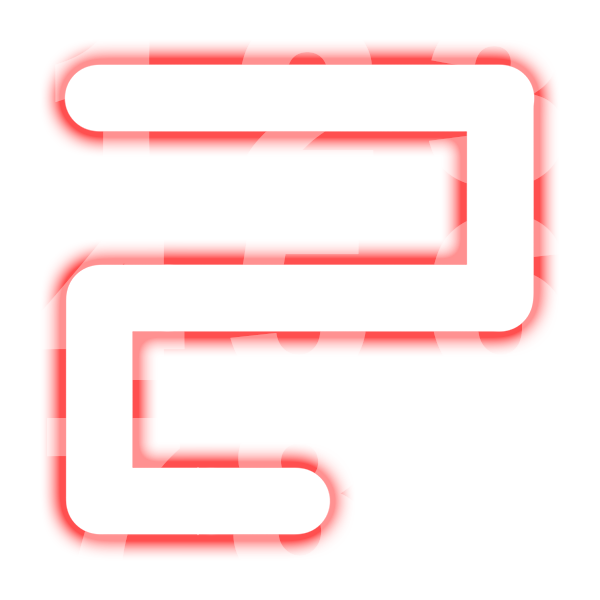
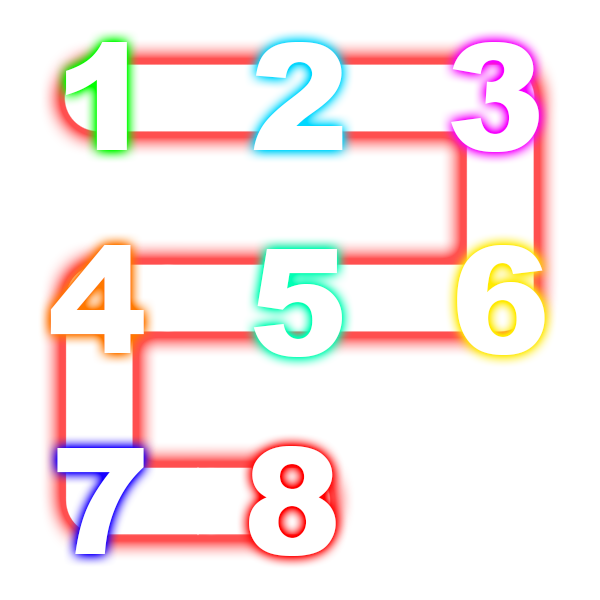
Screen Transition * changed minigame number, because lab people said 3 and 8 were too similar * incorporate transit screen and win screen into current code base * added FinalScreen to indicate it is time to hack missile * remove timeout place holder, now transitScreen placed between 2 levels * place

diff --git a/src/Screens/ScreenManager.cpp b/src/Screens/ScreenManager.cpp
@@ -12,7 +12,8 @@ ScreenManager::ScreenManager(Logic *logic){
     info_screen = new InfoScreen();
     transit_screen = new TransitScreen();
     win_screen = new WinScreen();
-	current_screen = win_screen;
+    final_screen = new FinalScreen();
+	current_screen = menu_screen;
 }
 
 void ScreenManager::render(sf::RenderWindow *window){
@@ -70,10 +71,28 @@ void ScreenManager::interpretInput(std::vector<sf::Event>& events){
 
         }
         else if (current_screen == timeout_screen) {
+//            if (event.type == sf::Event::KeyPressed) {
+//                if (event.key.code == sf::Keyboard::Space) {
+//                    //std::cout << "ScreenManager: debug: tried to switch back to gamescreen" << std::endl;
+//                    current_screen = game_screen;
+//                }
+//                eventAccepted = true;
+//            }
+        }
+        else if(current_screen == transit_screen){
             if (event.type == sf::Event::KeyPressed) {
                 if (event.key.code == sf::Keyboard::Space) {
                     std::cout << "ScreenManager: debug: tried to switch back to gamescreen" << std::endl;
                     current_screen = game_screen;
+                }
+                eventAccepted = true;
+            }
+
+        }else if(current_screen==final_screen){
+            if (event.type == sf::Event::KeyPressed) {
+                if (event.key.code == sf::Keyboard::Space) {
+                    std::cout << "ScreenManager: debug: tried to switch to minigame screen" << std::endl;
+                    current_screen = minigame_screen;
                 }
                 eventAccepted = true;
             }
@@ -110,6 +129,41 @@ void ScreenManager::switchToGameScreen(){
     current_screen=game_screen;
 }
 
+void ScreenManager::switchToFinalScreen(sf::RenderWindow* window){
+    minigame_screen->gameWon = false;
+    minigame_screen->spriteBoardCreated = false;
+    minigame_screen->shuffled = false;
+    sf::View camera = window->getView();
+    camera.setCenter(sf::Vector2f(400,300));
+    window->setView(camera);
+    current_screen=final_screen;
+
+
+}
+
+void ScreenManager::switchToWin(sf::RenderWindow* window){
+    //minigame_screen->gameWon = false;
+    //minigame_screen->spriteBoardCreated = false;
+    //minigame_screen->shuffled = false;
+    sf::View camera = window->getView();
+    camera.setCenter(sf::Vector2f(400,300));
+    window->setView(camera);
+    //logic_->setPlayState(Logic::WIN);
+    current_screen=win_screen;
+}
+
+void ScreenManager::switchToTransit(sf::RenderWindow* window){
+    //minigame_screen->gameWon = false;
+    //minigame_screen->spriteBoardCreated = false;
+    //minigame_screen->shuffled = false;
+    sf::View camera = window->getView();
+    camera.setCenter(sf::Vector2f(400,300));
+    window->setView(camera);
+    //logic_->setPlayState(Logic::WIN);
+    current_screen=transit_screen;
+}
+
+
 void ScreenManager::switchToMinigame(sf::RenderWindow* window){
     sf::View camera = window->getView();
     camera.setCenter(sf::Vector2f(400,300));
@@ -127,4 +181,12 @@ bool ScreenManager::isMinigameOver(){
 
 void ScreenManager::passInputToMinigame(sf::Vector2<float> coordinates, sf::RenderWindow* window){
     minigame_screen->moveOnClick(minigame_screen->shuffledPuzzle, coordinates, window);
+}
+
+bool ScreenManager::isMinigameFinal(){
+    return minigame_screen->getMinigameFinal();
+}
+
+void ScreenManager::setMinigameToFinal(){
+    minigame_screen->setMinigameFinal();
 }

diff --git a/src/Game.cpp b/src/Game.cpp
@@ -63,8 +63,15 @@ void Game::Loop() {
             }
             if (screenManager->isOnMinigameScreen()){
                 if(screenManager->isMinigameOver()){
-                    screenManager->switchToGameScreen();
+                    if(!screenManager->isMinigameFinal()){
+                        screenManager->switchToGameScreen();
+
+                    }else{
+                        screenManager->switchToWin(window);
+                    }
+
                 }
+
                 else if (sf::Mouse::isButtonPressed(sf::Mouse::Left))
                     screenManager->passInputToMinigame(sf::Vector2f(sf::Mouse::getPosition(*window)), window);
                     logic->update(deltaTime);
@@ -89,7 +96,7 @@ void Game::Loop() {
                         std::cout << "Game.cpp: detected game logic WON state" << std::endl;
                         // switch to intermediate / loading screen
                         // TODO; make this a win instead of a timeout
-                        screenManager->switchToTimeout(window);
+                        screenManager->switchToTransit(window);
                         std::cout << "Game.cpp: switched to timeout?" << std::endl;
                         
                         // if we have another level
@@ -102,7 +109,15 @@ void Game::Loop() {
                             std::cout << "Game.cpp: next level loaded." << std::endl;
                         }
                         else {
-                            // TODO switch to the final hacking challenge, or an intermediate screen that introduces it
+                            if(screenManager->isMinigameFinal()==false){
+                                screenManager->setMinigameToFinal();
+                                screenManager->switchToFinalScreen(window);
+                                //screenManager->switchToMiniGame();
+
+                            }else{
+                                screenManager->switchToWin(window);
+                            }
+
                         }
                         
                         break;

diff --git a/src/Screens/FinalScreen.cpp b/src/Screens/FinalScreen.cpp
@@ -1,9 +1,11 @@
 //
-// Created by Ruoying Hao on 12/6/17.
+// Created by Ruoying Hao on 12/7/17.
 //
-#include "Screens/TransitScreen.hpp"
-TransitScreen::TransitScreen(){
-    if (!background.loadFromFile("../resource/background/transit_background.jpg"))
+
+#include "Screens/FinalScreen.hpp"
+
+FinalScreen::FinalScreen(){
+    if (!background.loadFromFile("../resource/background/final_background.jpg"))
     {
         // error...
     }
@@ -14,8 +16,8 @@ TransitScreen::TransitScreen(){
     }
     message.setFont(textFont);
 
-    message.setString("You have reached the exit!\n"
-                                  " But there's more to go");
+    message.setString("You have reached the missile!\n"
+                              " Now Hack the Missile!");
 
 
 
@@ -24,7 +26,7 @@ TransitScreen::TransitScreen(){
     message.setPosition(sf::Vector2f(SCREEN_WIDTH/2-message.getLocalBounds().width/2,200));
 
     enter.setFont(textFont);
-    enter.setString("Press Space to play the next level");
+    enter.setString("Press Space to hack");
     enter.setCharacterSize(30);
     enter.setFillColor(sf::Color::White);
     enter.setPosition(sf::Vector2f(SCREEN_WIDTH/2-enter.getLocalBounds().width/2,200+message.getLocalBounds().height+30));
@@ -33,7 +35,7 @@ TransitScreen::TransitScreen(){
 
 }
 
-void TransitScreen::render(sf::RenderWindow *window){
+void FinalScreen::render(sf::RenderWindow *window){
     window->clear();
     window->draw(bg);
 
@@ -42,6 +44,6 @@ void TransitScreen::render(sf::RenderWindow *window){
     window->display();
 
 }
-void TransitScreen::interpretInput(std::vector<sf::Event>& events){
+void FinalScreen::interpretInput(std::vector<sf::Event>& events){
 
 }

diff --git a/include/Screens/ScreenManager.hpp b/include/Screens/ScreenManager.hpp
@@ -11,6 +11,7 @@
 #include "Screens/InfoScreen.hpp"
 #include "Screens/TransitScreen.hpp"
 #include "Screens/WinScreen.hpp"
+#include "Screens/FinalScreen.hpp"
 
 class ScreenManager{
 
@@ -22,13 +23,18 @@ public:
     void interpretInput(std::vector<sf::Event>& events);
     void switchToTimeout(sf::RenderWindow *window);
     void switchToGameScreen();
+    void switchToFinalScreen(sf::RenderWindow *window);
     void switchToMinigame(sf::RenderWindow *window);
+    void switchToWin(sf::RenderWindow *window);
+    void switchToTransit(sf::RenderWindow *window);
     void passInputToMinigame(sf::Vector2<float> coordinates, sf::RenderWindow* window);
+    void setMinigameToFinal();
 
     bool loadTextures();
     bool isOnGameScreen();
     bool isOnMinigameScreen();
     bool isMinigameOver();
+    bool isMinigameFinal();
 
 private:
     //Screen *current_screen;
@@ -42,6 +48,7 @@ private:
     InfoScreen *info_screen;
     WinScreen *win_screen;
     TransitScreen *transit_screen;
+    FinalScreen *final_screen;
     Logic* logic_;
     sf::RenderWindow* window;
 };

diff --git a/include/Screens/FinalScreen.hpp b/include/Screens/FinalScreen.hpp
@@ -1,19 +1,18 @@
 //
-// Created by Ruoying Hao on 12/6/17.
+// Created by Ruoying Hao on 12/7/17.
 //
 
-#ifndef TRANSITSCREEN_HPP
-#define TRANSITSCREEN_HPP
-
+#ifndef FINALSCREEN_HPP
+#define FINALSCREEN_HPP
 #include "Global.hpp"
 #include "Screens/Screen.hpp"
 #include <sstream>
 #include <fstream>
 #include <string>
 
-class TransitScreen : public Screen {
+class FinalScreen : public Screen {
 public:
-    TransitScreen();
+    FinalScreen();
     void render(sf::RenderWindow *window) override;
     void interpretInput(std::vector<sf::Event>& events) override;
     bool finalState=false;
@@ -25,4 +24,4 @@ private:
     sf::Text enter;
 };
 
-#endif //TRANSITSCREEN_HPP
+#endif //FINALSCREEN_HPP

diff --git a/src/Screens/MiniGameScreen.cpp b/src/Screens/MiniGameScreen.cpp
@@ -583,3 +583,11 @@ void MiniGameScreen::interpretInput(std::vector<sf::Event>& events){
 void MiniGameScreen::setShuffleLength(int len){
   shuffleLengthVar=len;
 }
+
+void MiniGameScreen::setMinigameFinal(){
+    isFinal=true;
+}
+
+bool MiniGameScreen::getMinigameFinal(){
+        return isFinal;
+}

diff --git a/src/Screens/WinScreen.cpp b/src/Screens/WinScreen.cpp
@@ -34,7 +34,7 @@ void WinScreen::render(sf::RenderWindow *window){
     window->draw(bg);
 
     window->draw(message);
-    window->draw(enter);
+    //window->draw(enter);
     window->display();
 
 }

diff --git a/include/Screens/MiniGameScreen.hpp b/include/Screens/MiniGameScreen.hpp
@@ -70,6 +70,12 @@ public:
 
     void setShuffleLength(int len);
 
+    void setMinigameFinal();
+
+    bool getMinigameFinal();
+
+    bool isFinal=false;
+
 
 
 private:
